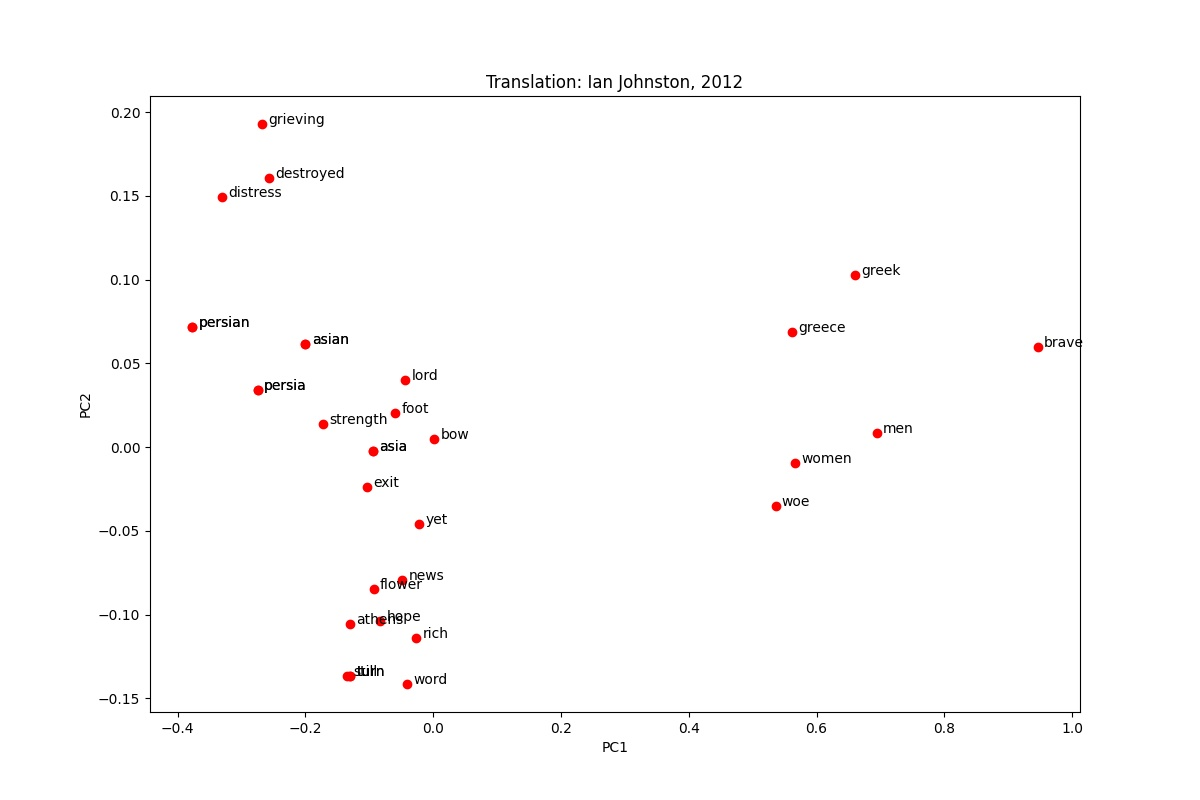
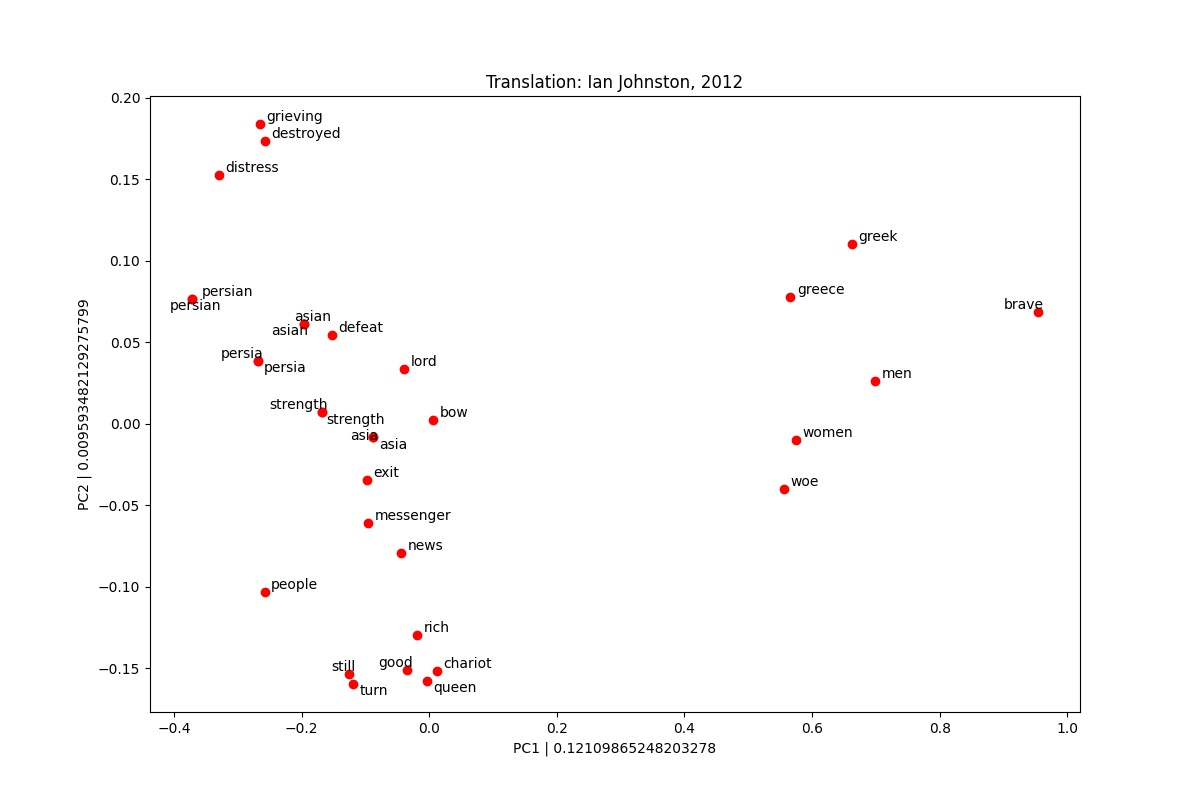
removed overlapping annotations

diff --git a/driver.py b/driver.py
@@ -7,7 +7,7 @@ import core.settings as settings
 import matplotlib.pyplot as plt 
 import numpy as np
 from core.translation import Translation
-
+from adjustText import adjust_text
 
 class Driver:
     def __init__(self) -> None:
@@ -74,13 +74,17 @@ class Driver:
             for section in text:
                 corpus.append(section.split(' '))
 
-            similar_words, all_words, pcs = analysis.analyze_embeddings(corpus, settings.key_words)
+            similar_words, all_words, pcs, explained_variance = analysis.analyze_embeddings(corpus, settings.key_words)
             plt.figure(figsize=(12, 8))
             plt.scatter(pcs[:, 0], pcs[:, 1], c='red')
+
+            annotations = []
             for word, x, y in zip(all_words, pcs[:, 0], pcs[:, 1]):
-                plt.annotate(word, xy=(x+0.01, y+0.0), xytext=(0, 0), textcoords='offset points')
-            plt.xlabel("PC1")
-            plt.ylabel("PC2")
+                annotations.append(plt.annotate(word, xy=(x+0.01, y+0.0), xytext=(0, 0), textcoords='offset points'))
+            adjust_text(annotations)
+            
+            plt.xlabel(f"PC1 | {explained_variance[0]}")
+            plt.ylabel(f"PC2 | {explained_variance[1]}")
             plt.title(f"Translation: {t.get_info()}") 
             plt.savefig(os.path.join(self.paths["embeddings"], "embeddings_" + t.lastname + ".jpg"))
 
